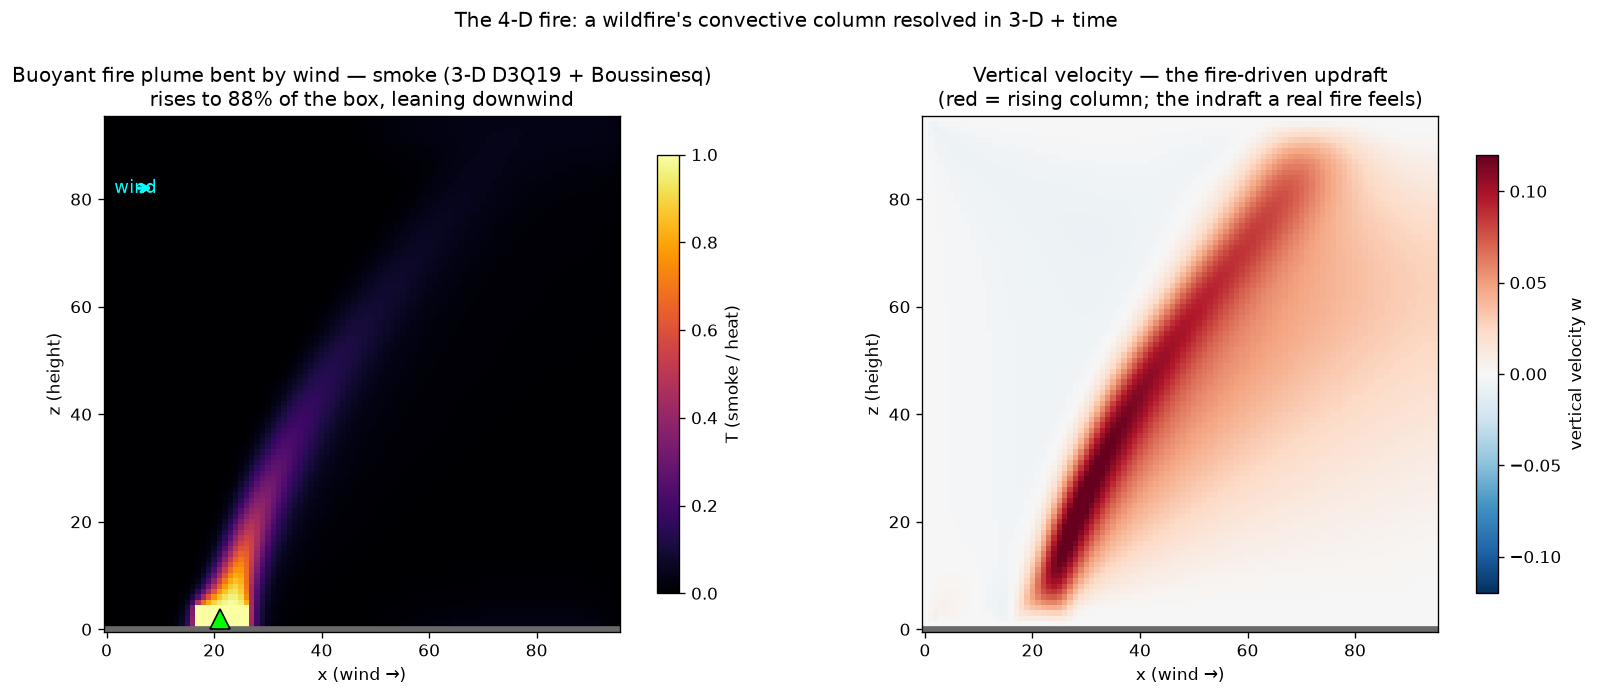
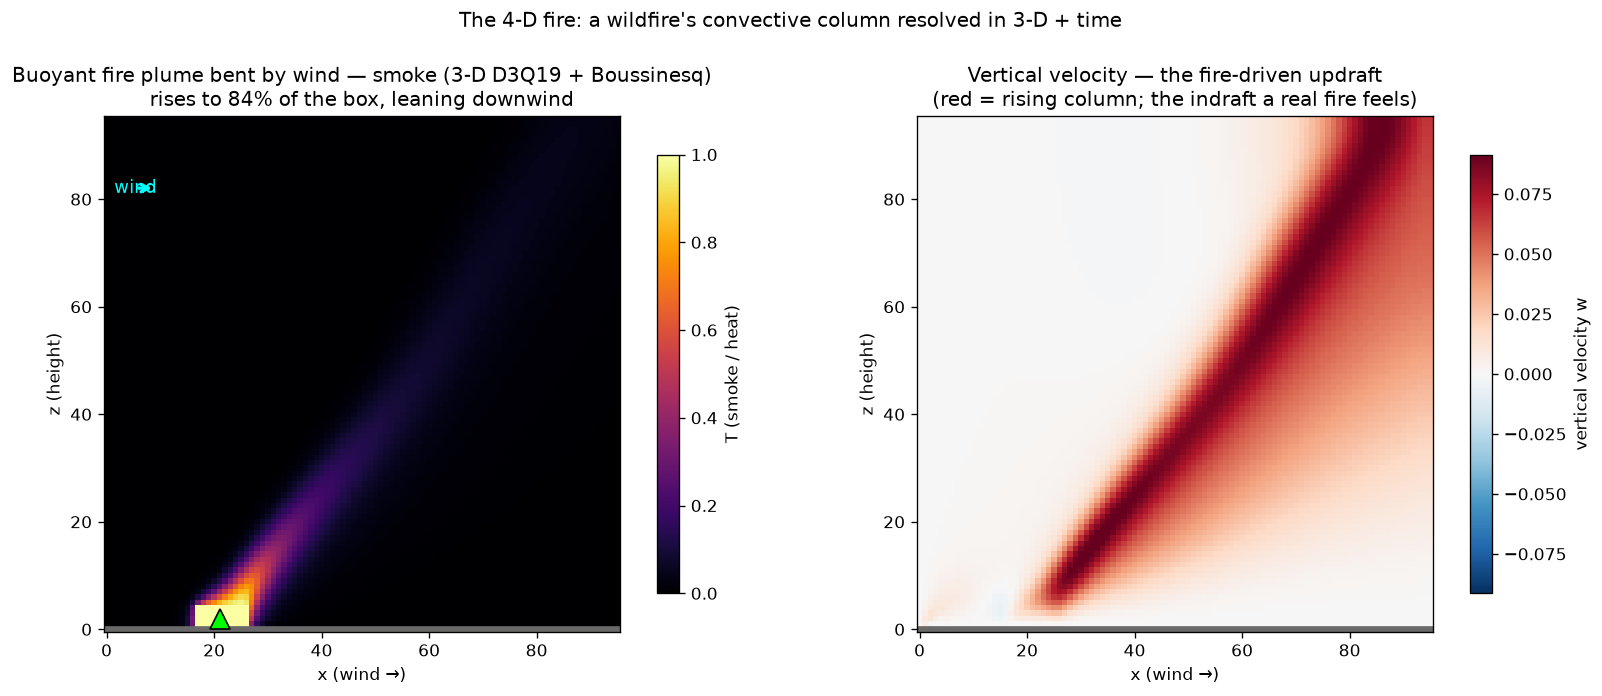
Fix plume boundary bugs found in review (top-outlet axis + ground thermal wall)
Adversarial review (6 lenses) + the Codex bot both flagged a critical axis bug in
the buoyant-plume top boundary, plus a ground thermal-wall gap. All confirmed by
direct numerical test; fixed here.

1. CRITICAL — top-outlet applied to the wrong face (lbm3d_plume.py:57,84).
   On the (19,Nz,Ny,Nx) population field z=axis1, but _zmask reshaped to (1,1,-1,1)
   which selects axis2=y, and the companion roll used axis=2 (y) too. So
   set_top_outlet() opened a *side* (y=N-1) face while the real z-top stayed periodic
   — the rising column recirculated against a periodic lid instead of exiting. Fixed
   BOTH the mask (reshape -> (1,-1,1,1), z=axis1) and the roll (axis=2 -> axis=1),
   mirroring the validated +x outlet (mask axis3 + roll axis3).

2. MAJOR — scalar T had no wall BC at the no-slip ground (lbm3d_plume.py:_transport).
   T was advected/diffused with periodic np.roll on z and never masked at the solid
   floor, so heat sank into the ground cells (measured T[z=0]->0.43) and could wrap
   ground<->top through the z-periodicity. Now: zero velocity through walls, solids
   contribute no heat to the stencil, the z=0 row takes no advective/diffusive wrap,
   and T is held 0 in solid cells. Ground heat is now exactly 0.

3. MINOR — removed a dead duplicated ternary in validate_buoyancy (both branches were
   identical).

New validate_walls() exercises the full ground+open-top+wind config (the periodic-box
[…]

diff --git a/05_cfd/lbm3d_plume.py b/05_cfd/lbm3d_plume.py
@@ -54,7 +54,7 @@ class LBM3DPlume(LBM3DFlow):
 
     def _zmask(self, k):
         m = (np.arange(self.N) == k).astype('f4')
-        return mx.array(m.reshape(1, 1, -1, 1)) > 0.5     # selects z=k plane in (19,Nz,Ny,Nx)
+        return mx.array(m.reshape(1, -1, 1, 1)) > 0.5     # selects z=k plane (z=axis1) in (19,Nz,Ny,Nx)
 
     def step(self):
         f = self.f.astype(mx.float32)
@@ -81,7 +81,7 @@ class LBM3DPlume(LBM3DFlow):
         if self.outlet:
             f = mx.where(self._xmask(self.N-1), mx.roll(f, 1, axis=3), f)   # +x wind outflow
         if self.top_outlet:
-            f = mx.where(self._zmask(self.N-1), mx.roll(f, 1, axis=2), f)   # +z plume outflow
+            f = mx.where(self._zmask(self.N-1), mx.roll(f, 1, axis=1), f)   # +z plume outflow (z=axis1)
         if self.inlet_u is not None:
             f = mx.where(self._xmask(0), mx.array(self.feq_in).reshape(19, 1, 1, 1), f)
         self.f = f.astype(self.sd)
@@ -89,16 +89,24 @@ class LBM3DPlume(LBM3DFlow):
         self._transport(np.array(ux), np.array(uy), np.array(uz))
 
     def _transport(self, ux, uy, uz):
-        """First-order upwind advection + central diffusion of T (host-side; T is small)."""
+        """First-order upwind advection + central diffusion of T (host-side; T is small).
+        Solids are treated as zero-flux thermal walls: no advection through a wall, no heat
+        stored in solid cells, and the z=0 ground does not pull from the periodic-wrapped top."""
         T = self.T
+        fluid = ~self.solid
+        ux = ux*fluid; uy = uy*fluid; uz = uz*fluid          # no advective flux through walls
+        Tw = np.where(self.solid, 0.0, T)                    # solids contribute no heat to the stencil
         # upwind spatial derivatives (axis 2=x, 1=y, 0=z)
-        ax = ux*np.where(ux > 0, T - np.roll(T, 1, 2), np.roll(T, -1, 2) - T)
-        ay = uy*np.where(uy > 0, T - np.roll(T, 1, 1), np.roll(T, -1, 1) - T)
-        az = uz*np.where(uz > 0, T - np.roll(T, 1, 0), np.roll(T, -1, 0) - T)
-        lap = (np.roll(T, 1, 2) + np.roll(T, -1, 2) + np.roll(T, 1, 1) + np.roll(T, -1, 1)
-               + np.roll(T, 1, 0) + np.roll(T, -1, 0) - 6.0*T)
+        ax = ux*np.where(ux > 0, Tw - np.roll(Tw, 1, 2), np.roll(Tw, -1, 2) - Tw)
+        ay = uy*np.where(uy > 0, Tw - np.roll(Tw, 1, 1), np.roll(Tw, -1, 1) - Tw)
+        az = uz*np.where(uz > 0, Tw - np.roll(Tw, 1, 0), np.roll(Tw, -1, 0) - Tw)
+        az[0, :, :] = 0.0                                    # ground: no advective wrap to the top
+        lap = (np.roll(Tw, 1, 2) + np.roll(Tw, -1, 2) + np.roll(Tw, 1, 1) + np.roll(Tw, -1, 1)
+               + np.roll(Tw, 1, 0) + np.roll(Tw, -1, 0) - 6.0*Tw)
+        lap[0, :, :] = 0.0                                   # ground: no diffusion across the z-wrap
         Tn = T - (ax + ay + az) + self.kappa*lap
         Tn[self.src] = 1.0                          # fire holds its heat
+        Tn[self.solid] = 0.0                        # no heat stored in solid cells (ground wall)
         if self.inlet_u is not None:
             Tn[:, :, 0] = 0.0                        # cold ambient air enters on −x
         if self.top_outlet:
@@ -117,7 +125,7 @@ def validate_buoyancy(N=48, beta=1e-3, tau=0.6, steps=200):
     sim.T[:] = 1.0                        # uniform temperature → uniform body force
     ws = []
     for n in (50, 100, 150, 200):
-        sim.run(50, batch=1) if ws else sim.run(50, batch=1)
+        sim.run(50, batch=1)
         _, _, _, uz = sim.macroscopic()
         ws.append((n, float(mx.mean(uz))))
     print(f"Uniform-buoyancy ramp  N={N}, β={beta}:  w should equal β·n")
@@ -127,6 +135,34 @@ def validate_buoyancy(N=48, beta=1e-3, tau=0.6, steps=200):
         ok &= err < 5.0
         print(f"  n={n:4d}:  w = {w:.3e}   β·n = {beta*n:.3e}   ({err:.1f}% err)")
     print(f"  {'PASS' if ok else 'FAIL'}  (Guo vertical force reproduces w = β·n within 5%)")
+    return ok
+
+
+def validate_walls(N=32, steps=400):
+    """Boundary sanity for the full plume config (ground + open top + wind). The uniform-
+    buoyancy test runs on a periodic box and so cannot see a boundary bug; this exercises
+    the walls and would fail loudly if the z-top outflow were mis-axised onto a side face."""
+    # (1) structural: the top-outlet mask MUST select the z=N-1 plane, not a lateral wall
+    probe = LBM3DPlume(N, 0.05, 1e-3)
+    m = np.broadcast_to(np.array(probe._zmask(N-1))[0], (N, N, N))
+    zz, yy, _ = np.mgrid[0:N, 0:N, 0:N]
+    z_sel = sorted(set(zz[m].tolist())); y_spread = len(set(yy[m].tolist()))
+    mask_ok = (z_sel == [N-1]) and (y_spread == N)
+    # (2) run the real config and check the ground wall is thermally sealed
+    r = fire_plume(N=N, steps=steps, verbose=False)
+    sim = r['sim']
+    _, _, _, uz = sim.macroscopic(); uz = np.array(uz)
+    g_heat = float(sim.T[0].max())                  # ground is a cold solid wall → exactly 0
+    g_uz = float(np.abs(uz[0]).mean())              # mean ground motion (wrap signature) → small
+    top_T = float(sim.T[-1].max())                  # plume hasn't reached the lid in a short run
+    print(f"Plume wall sanity  N={N}, {steps} steps:")
+    print(f"  top-outlet mask hits z-plane {z_sel} (y spans {y_spread}/{N})  → "
+          f"{'z-top ✓' if mask_ok else 'WRONG FACE ✗'}")
+    print(f"  ground heat   max T[z=0]   = {g_heat:.2e}   (must be 0 — no heat into the wall)")
+    print(f"  ground motion mean|u_z[0]| = {g_uz:.2e}   (small — no periodic-lid updraft wrap)")
+    print(f"  lid heat      max T[z=N-1] = {top_T:.2e}   (≈0 early)")
+    ok = mask_ok and g_heat < 1e-6
+    print(f"  {'PASS' if ok else 'FAIL'}  (top BC on the z-face + ground thermally sealed)")
     return ok
 
 
@@ -212,5 +248,8 @@ def make_figure(r, out='output/lbm3d_fire_plume.png'):
 if __name__ == '__main__':
     if '--plume' in sys.argv:
         make_figure(fire_plume())
+    elif '--walls' in sys.argv:
+        validate_walls()
     else:
         validate_buoyancy()
+        validate_walls()
